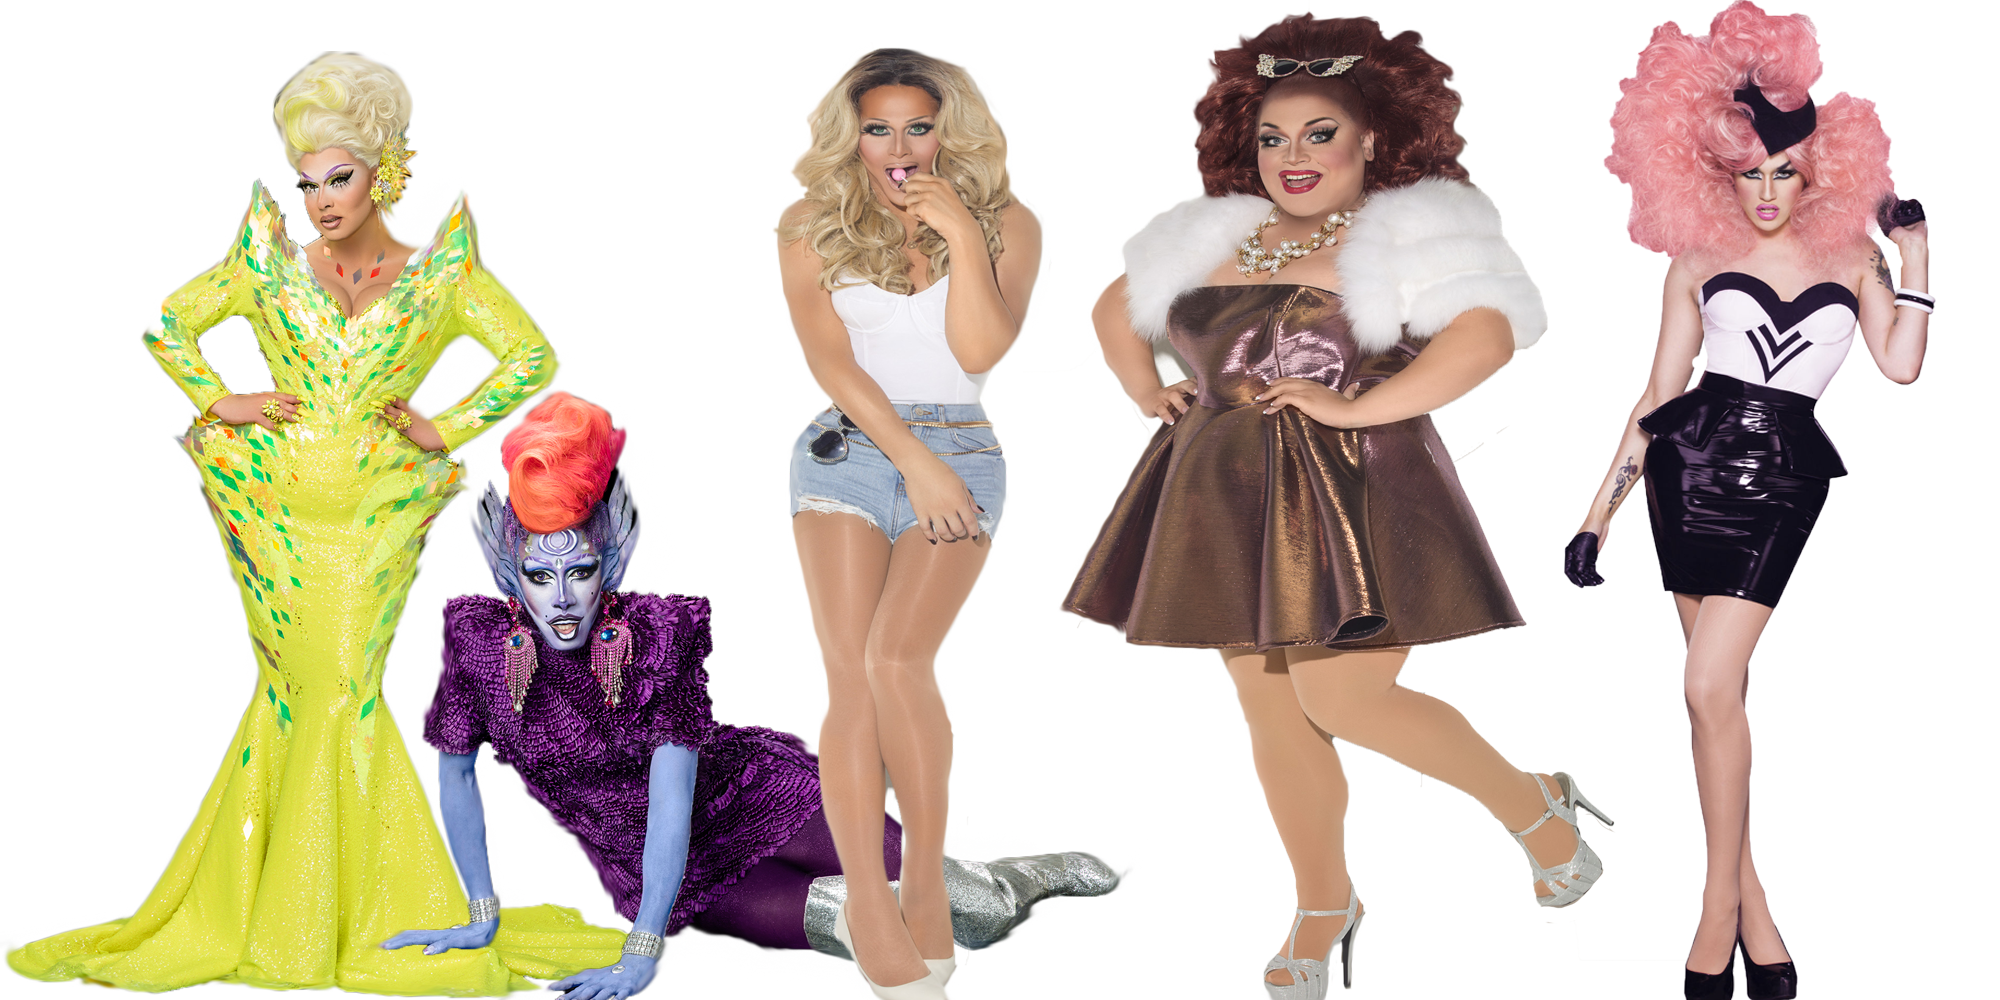
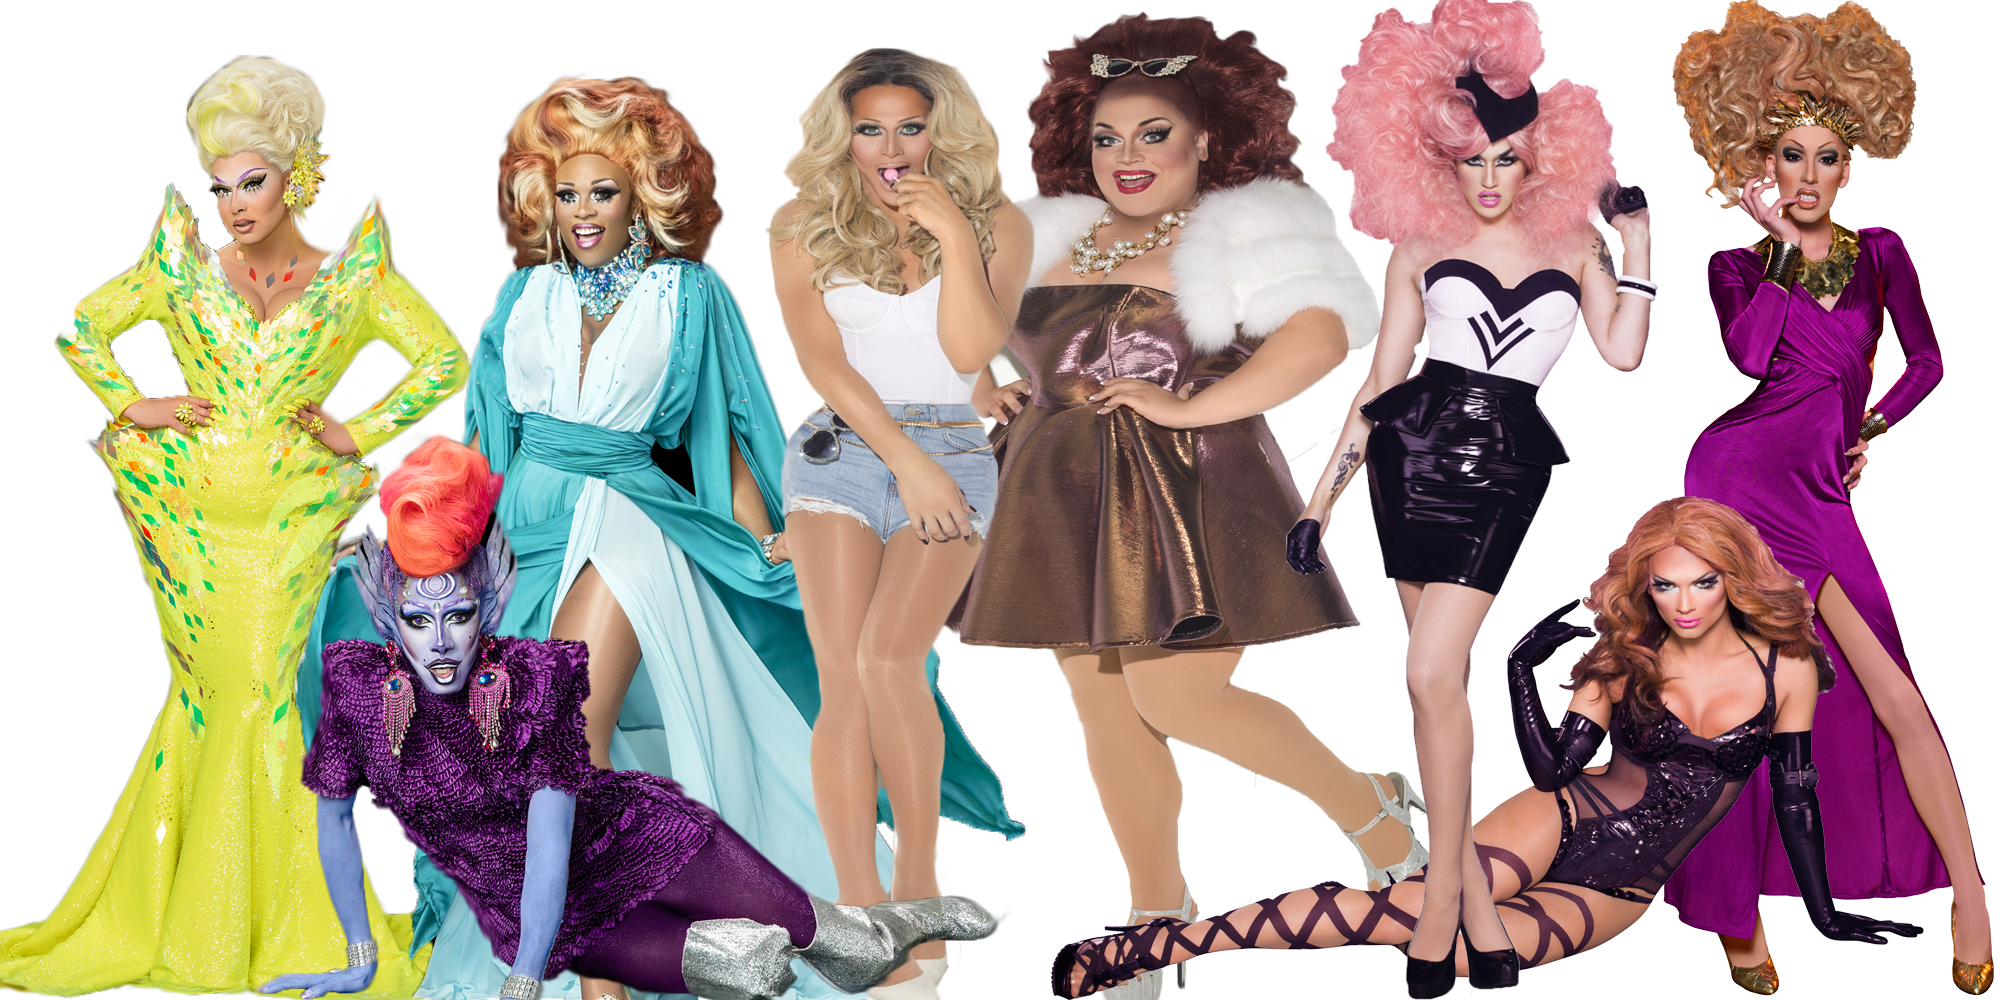
adding images and rearranging

diff --git a/src/scss/_drag_race_index.scss b/src/scss/_drag_race_index.scss
@@ -65,12 +65,12 @@
 
 .plax.ccparallax {
   background-attachment: fixed;
-  background-position: 50% 50%;
+  // background-position: 50% 50%;
   background-repeat: no-repeat;
   background-size: cover;
   padding-bottom: 50px;
   padding-top: 50px;
-  height: 500px;
+  height: 650px;
 }
 
 .plax.content {
@@ -85,7 +85,7 @@
 }
 .plax.ccparallax h1 {
   font-weight: 700;
-  font-size: 76px;
+  font-size: 80px;
   text-align: center;
   text-transform: uppercase;
   color: black;
@@ -93,7 +93,7 @@
   padding: 10px;
   padding-top: 20px;
   border-radius: 50px;
-  margin-top: 120px;
+  margin-top: 190px;
 }
 
 

diff --git a/src/index.html b/src/index.html
@@ -13,8 +13,8 @@
 <body ng-controller="MainCtrl as main">
   <header>
     <img class="navImage" src="images/nav-image.png">
-    <img class="navRupaul" src="images/rupaul_nav_image.png"><a ui-sref="home"></a>
-    <img class="mainLogo" src="images/main-logo.png"><a href="home"></a>
+    <img class="navRupaul" src="images/rupaul_nav_image.png">
+    <img class="mainLogo" src="images/main-logo.png">
     <div class="navline"><h4 class="menuNav"></h4></div>
   </header>
   <main class="container" ui-view></main>
